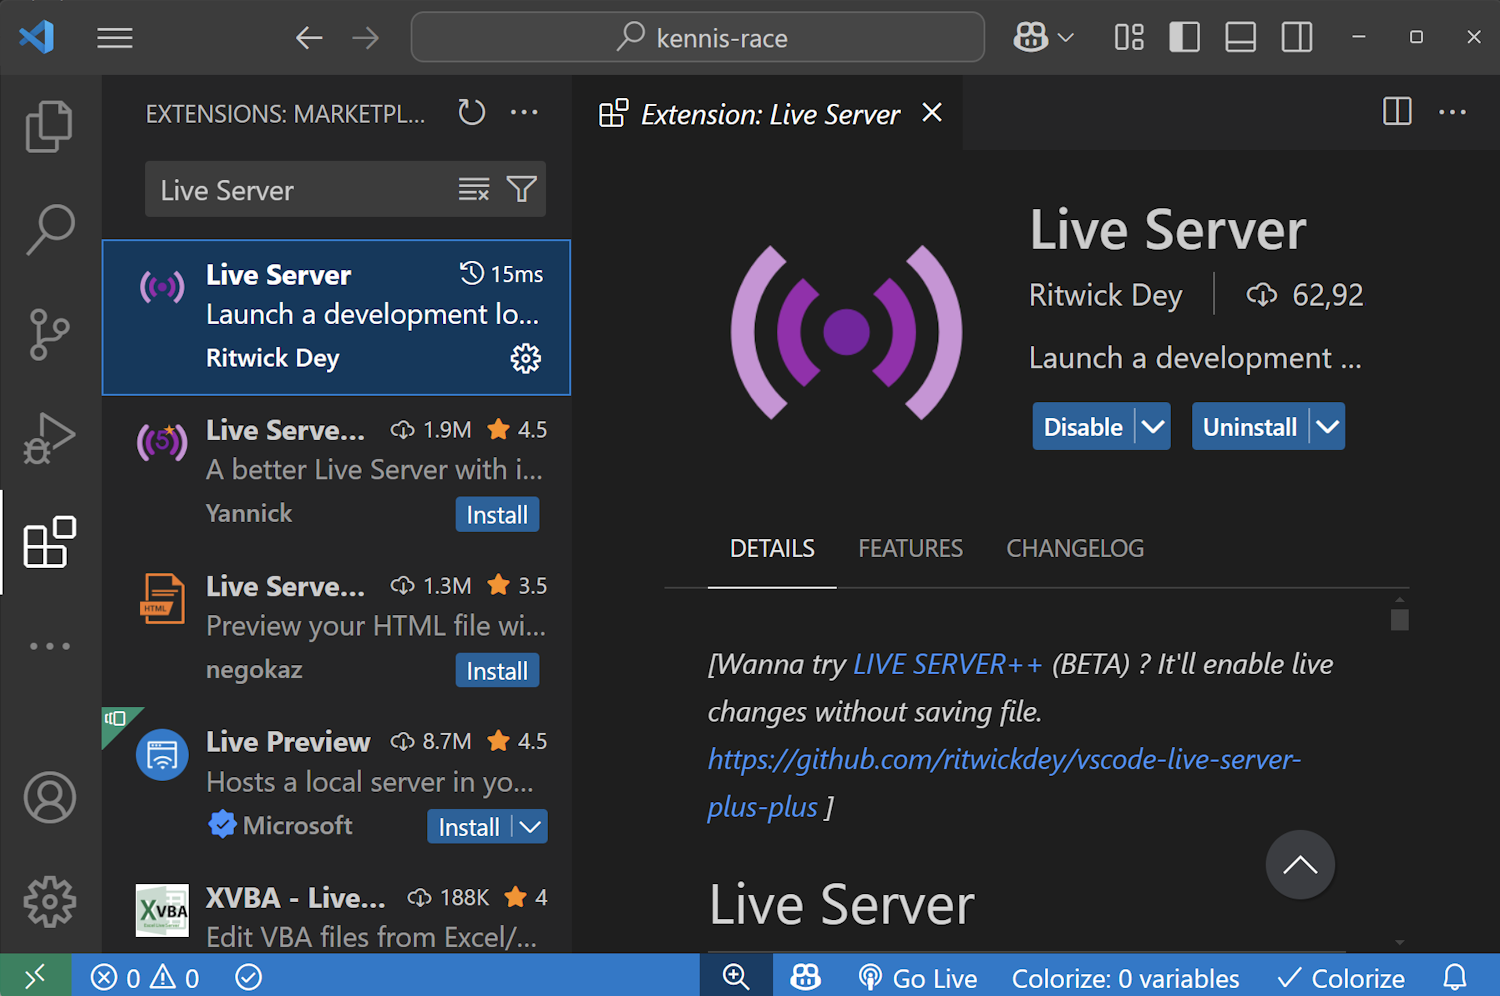
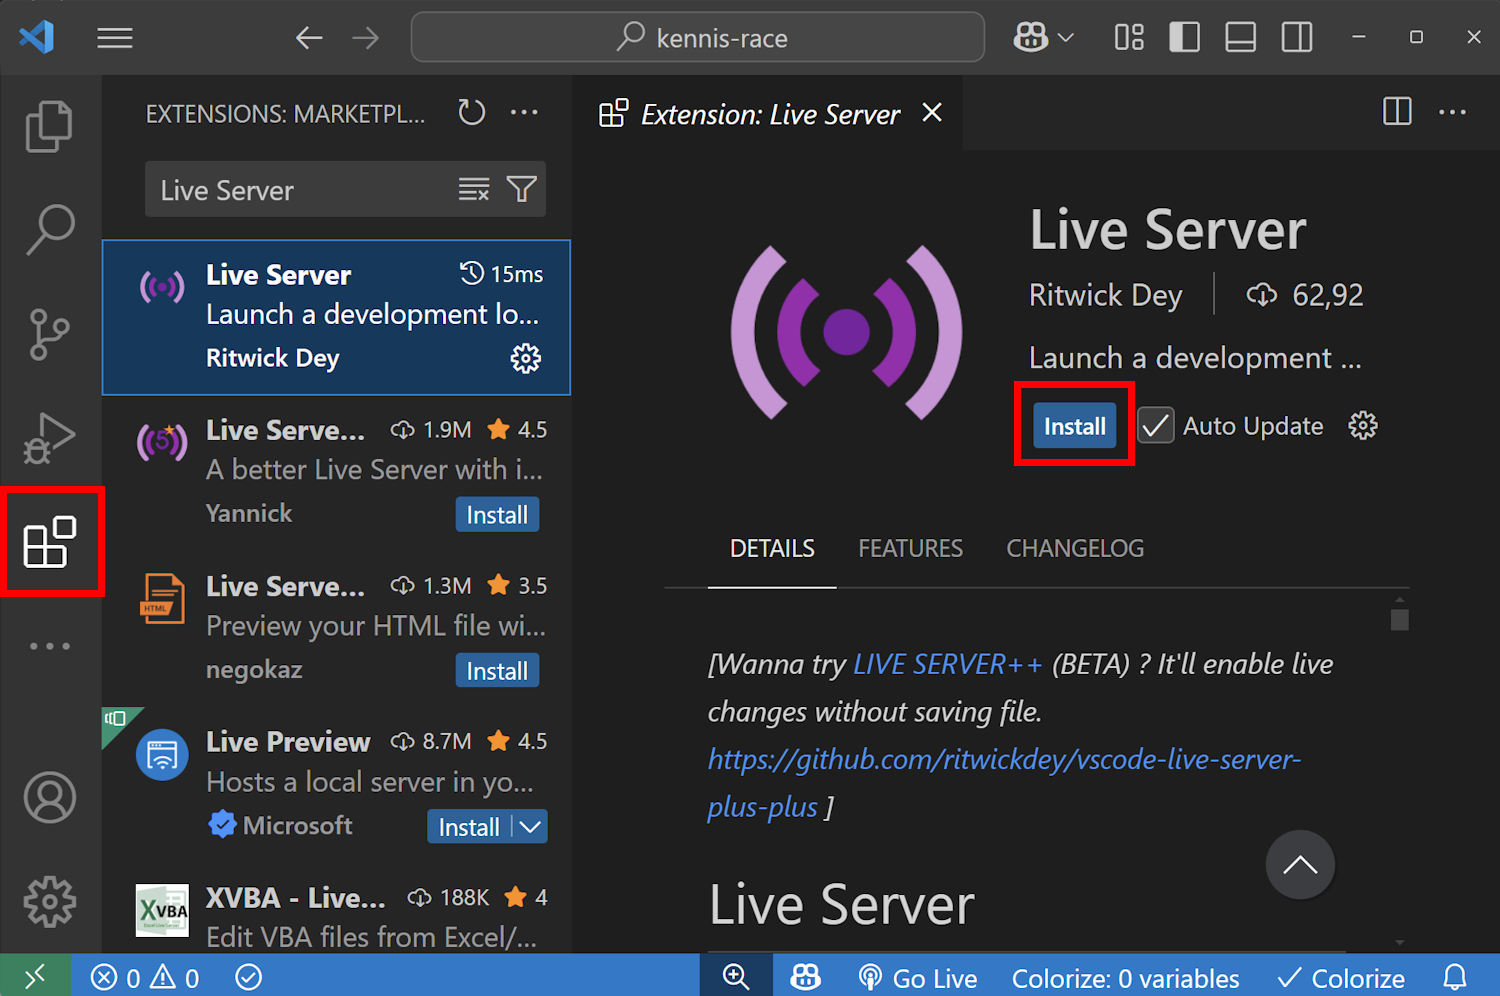
updated tutorial steps

Changed region(s): [[0.6747, 0.3735, 0.92, 0.4669], [0.0, 0.4669, 0.0613, 0.6225], [0.0613, 0.498, 0.092, 0.5914]]

diff --git a/tutorial.html b/tutorial.html
@@ -29,9 +29,9 @@
              <div class="tutorial__overview">
                 <p class="tutorial__text tutorial__text--highlight">Hiervoor gebruiken we 3 codetalen:</p>
                 <ul class="tutorial__list tutorial__list--languages">
-                <li class="tutorial__item tutorial__item--language">HTML</li>
-                <li class="tutorial__item tutorial__item--language">CSS</li>
-                <li class="tutorial__item tutorial__item--language">JavaScript</li>
+                    <li class="tutorial__item tutorial__item--language">HTML</li>
+                    <li class="tutorial__item tutorial__item--language">CSS</li>
+                    <li class="tutorial__item tutorial__item--language">JavaScript</li>
                 </ul>
             </div>
             <figure class="tutorial__figure">
@@ -57,12 +57,13 @@
                     </p>
                     <h3 class="step__subtitle">1.3 folderstructuur</h3>
                     <p class="step__item">
+                        Maak de mappen <span class="tutorial__highlight">css</span>, <span class="tutorial__highlight">data</span> en <span class="tutorial__highlight">scripts</span>, en de bestanden <span class="tutorial__highlight">main.css</span>, <span class="tutorial__highlight">app.js</span> en <span class="tutorial__highlight">index.html</span>.<br>
                         De map- en bestandsstructuur ziet er zo uit:
                         <img class="tutorial__image" alt="Maak map- en bestandsstructuur" src="./src/assets/screenshot4.png">
                     </p>
                     <h3 class="step__subtitle">1.4 Installatie Live server</h3>
                     <p class="step__item">
-                        Installeer de Live Server extensie in Visual Studio Code.
+                        Ga naar extensions en installeer de Live Server extensie in Visual Studio Code.
                         <img class="tutorial__image" alt="Installeer live server extensie" src="./src/assets/screenshot5.png">
                     </p>
                     <h3 class="step__subtitle">1.5 Opstarten van Live server</h3>
@@ -97,7 +98,7 @@
 &lt;<span class="tag">body</span>&gt;
     &lt;<span class="tag">main</span> <span class="attr">class</span>=<span class="string">&quot;quiz&quot;</span>&gt;
 
-    <span class="comment">&lt;!-- Voeg hier code toe --&gt;</span>
+    <span class="comment">&lt;!-- Voeg hier code toe in stappen 2.2, 2.3 en 2.4 --&gt;</span>
 
     &lt;/<span class="tag">main</span>&gt;
     &lt;<span class="tag">script</span> <span class="attr">type</span>=<span class="string">&quot;module&quot;</span> <span class="attr">src</span>=<span class="string">&quot;./scripts/app.js&quot;</span>&gt;&lt;/<span class="tag">script</span>&gt;
@@ -171,7 +172,8 @@
             </section>
             <section class="step">
                 <h2 class="step__title">Stap 3: CSS</h2>
-                <p class="step__text">CSS zorgt voor de vormgeving en stijl van je website.</p>
+                <p class="step__text">CSS zorgt voor de vormgeving en stijl van je website. In deze taal spreken we elementen uit het index.html bestand aan 
+                    en geven we ze bapaalde eigenschappen zoals groottes, kleuren, positionering en font-stijlen</p>
                 <div class="step__content">
                     <h3 class="step__subtitle">3.1 CSS toevoegen</h3>
                     <p class="step__item">
@@ -311,7 +313,13 @@
             </section>
             <section class="step">
                 <h2 class="step__title">Stap 4: JavaScript</h2>
-                <p class="step__text">JavaScript geeft functionaliteit aan het spel.</p>
+                <p class="step__text">JavaScript geeft functionaliteit aan het spel. Enkele basistermen van JavaScript:</p>
+                <ul class="tutorial__list tutorial__list--terms">
+                    <li class="tutorial__item tutorial__item--terms"><span class="tutorial__highlight">const & let:</span> Dit zijn variabelen. Const kan je niet aanpassen en let wel.</li>
+                    <li class="tutorial__item tutorial__item--terms"><span class="tutorial__highlight">function:</span> Dit declareert een functie waarmee je code kunt uitvoeren en optioneel parameters kunt meegeven.</li>
+                    <li class="tutorial__item tutorial__item--terms"><span class="tutorial__highlight">// :</span> Dit is comentaar. Het heeft geen invloed op de code.</li>
+                    <li class="tutorial__item tutorial__item--terms"><span class="tutorial__highlight">array :</span> Een geordende lijst waarin je meerdere waarden kunt opslaan in één variabele.</li>
+                </ul>
                 <div class="step__content">
                     <h3 class="step__subtitle">4.1 databestand downloaden</h3>
                     <p class="step__item">
@@ -367,14 +375,13 @@
                         Nu gaan we een random vraag tonen op de website.<br>
                         Schrijf in de functie <span class="tutorial__highlight">playerTurn()</span> onderstaande code.<br>
                         Hierin halen we een random vraag uit de array, en tonen we deze in <span class="tutorial__highlight">$questionDisplay</span>.
-                        <pre>
-<code>
-<span class="tag">function</span> <span class="var">playerTurn</span><span class="symbol">()</span> <span class="symbol">{</span>
+<pre><code><span class="tag">function</span> <span class="var">playerTurn</span><span class="symbol">()</span> <span class="symbol">{</span>
     <span class="tag">const</span> <span class="var">randomQuestion</span> <span class="symbol">=</span> <span class="var">questionArray</span><span class="symbol">[</span><span class="attr">Math</span>.<span class="attr">floor</span><span class="symbol">(</span><span class="attr">Math</span>.<span class="attr">random</span><span class="symbol">()</span> <span class="symbol">*</span> <span class="var">questionArray</span>.<span class="attr">length</span><span class="symbol">)</span><span class="symbol">];</span>
     <span class="var">$questionDisplay</span>.<span class="attr">innerHTML</span> <span class="symbol">=</span> <span class="var">randomQuestion</span>.<span class="attr">question</span><span class="symbol">;</span>
     <span class="var">currentAnswer</span> <span class="symbol">=</span> <span class="var">randomQuestion</span>.<span class="attr">answer</span><span class="symbol">;</span>
 
-    <span class="comment">// Hier komt nog code...</span>
+    <span class="comment">// Hier komt nog code in stap 4.5, 4.7 en 4.9</span>
+    
 <span class="symbol">}</span>
 </code></pre>
             <p class="step__item">Als je nu je website herlaad, wordt er elke keer een random quizvraag getoont.</p>
@@ -387,7 +394,7 @@
 </code></pre>
             <p class="step__item">Hiermee tonen we de variabele <span class="tutorial__highlight">currentPlayer</span> op de website.</p>
                     </p>
-                    <h3 class="step__subtitle">4.6 Antwoord knoppen laten werken</h3>
+                    <h3 class="step__subtitle">4.6 Antwoord-knoppen laten werken</h3>
                     <p class="step__item">
                         Vervolgens willen we onze knoppen laten werken. Schrijf deze code in de functie <span class="tutorial__highlight">initButtons()</span><br>
                         De <span class="tutorial__highlight">isWaiting</span> variabele is nodig om spammen tegen te houden. Enkel wanneer deze true is, kunnen we drukken op een knop
@@ -405,16 +412,16 @@
     });
 }
 </code></pre>
-                        <p class="step__item">Voor nu schrijven we een alert als we op een knop drukken. Later passen we dit aan.<br>
-                        Test dit eens door op de knoppen te drukken.</p>
+                        <p class="step__item">Voor nu schrijven we een <span class="tutorial__highlight">alert</span> als we op een knop drukken. Later passen we dit aan.<br>
+                        Test dit eens door op de knoppen te drukken. Je zal een melding in de browser krijgen.</p>
                         <img class="tutorial__image" alt="Alert op de game page" src="./src/assets/screenshot10.png">
                     </p>
                     <h3 class="step__subtitle">4.7 Score spelers laten tonen</h3>
 
                     <p class="step__item">
-                        Nu willen we de punten van de spelers kunnen zien. In index.html hebben we per speler een progress bar met 10 stappen.<br>
-                        De huidige score van de spelers wordt aangeduid door de klas "progress__step--current".<br>
-                        De juist beantwoorde vragen worden aangetoond met "progress__step--completed". Wijzig updatePoints().<br><br>
+                        Nu willen we de punten van de spelers kunnen zien. In <span class="tutorial__highlight">index.html</span> hebben we per speler een progress bar met 10 stappen.<br>
+                        De huidige score van de spelers wordt aangeduid door de klas <span class="tutorial__highlight">"progress__step--current"</span>.<br>
+                        De juist beantwoorde vragen worden aangetoond met <span class="tutorial__highlight">"progress__step--completed"</span>. Wijzig de functie <span class="tutorial__highlight">updatePoints()</span>.<br><br>
                         Deze functie haalt de twee elementen met de klasse .progress op en verwijdert bij ieder child-element de klasse progress__step--current.<br>
                         Vervolgens voegt hij, afhankelijk van de score per speler (maximaal 9), de klassen progress__step--current en progress__step--completed toe aan het juiste stap-element.
 <pre><code><span class="tag">function</span> <span class="selector">updatePoints</span>() {
@@ -432,24 +439,21 @@
         }
     });
 
-    <span class="symbol">if</span> (<span class="var">player1Score</span> &gt; <span class="value">9</span>) {
-        <span class="selector">playerWins</span>(<span class="value">1</span>);
-    } <span class="symbol">else if</span> (<span class="var">player2Score</span> &gt; <span class="value">9</span>) {
-        <span class="selector">playerWins</span>(<span class="value">2</span>);
-    }
+    <span class="comment">// Voeg hier nog code toe in stap 4.10</span>
+    
 }
 </code></pre>
 
-<p class="step__item">Vergeet ook niet om deze functie onderaan in playerTurn() op te roepen!<br>
+<p class="step__item">Vergeet ook niet om deze functie onderaan in <span class="tutorial__highlight">playerTurn()</span> op te roepen!<br>
                         Test deze functie door bovenaan je code de waardes van player1Score en player2Score aan te passen naar een getal onder de 10.<br>
                         Je zal zien dat de gekleurde circles van plaats veranderen.</p>
                     </p>
                     <h3 class="step__subtitle">4.8 quizvragen beantwoorden doormiddel van knoppen</h3>
                     <p class="step__item">
                         De volgende stap is zorgen dat we vragen kunnen antwoorden door de knoppen te gebruiken.<br>
-                        Dit doen we door een nieuwe funtie checkAnswer() te maken. We geven deze functie 2 dingen mee; het laatst gegeven antwoord en het correcte antwoord.<br>
+                        Dit doen we door een nieuwe funtie <span class="tutorial__highlight">checkAnswer()</span> te maken. We geven deze functie 2 dingen mee; het laatst gegeven en het correcte antwoord.<br>
                         Als deze twee gelijk zjin, geven we de huidige speler een punt. Als deze niet gelijk zijn geven we de andere speler een punt. <br>
-                        Dit wordt ook getoont in de $answerDisplay. Aan het eind van de functie switchen we van speler en voeren we een delay uit van 1000ms.
+                        Dit wordt ook getoont in de <span class="tutorial__highlight">$answerDisplay</span>. Aan het eind van de functie switchen we van speler en voeren we een <span class="tutorial__highlight">delay</span> uit van 1000ms.
 <pre><code><span class="tag">function</span> <span class="selector">checkAnswer</span>(<span class="var">givenAnswer</span>, <span class="var">correctAnswer</span>) {
     <span class="var">isWaiting</span> = <span class="tag">true</span>;
 
@@ -467,19 +471,20 @@
 }
 </code></pre>
 
-<p class="step__item">Voer deze functie uit in plaat van de geschreven alert in de initButtons() functie.<br>
-                        Geef true mee als er Juist knop wordt gedrukt, en false mee als er op de fout knop wordt gedrukt.</p>
+<p class="step__item">Voer deze functie uit in plaat van de geschreven alert in de <span class="tutorial__highlight">initButtons()</span> functie.<br>
+                        Geef true mee als er Juist knop wordt gedrukt, en false mee als er op de Fout knop wordt gedrukt.</p>
 <pre><code><span class="selector">checkAnswer</span>(<span class="tag">true</span>, <span class="var">currentAnswer</span>);
 </code></pre>
 <pre><code><span class="selector">checkAnswer</span>(<span class="tag">false</span>, <span class="var">currentAnswer</span>);
 </code></pre>
-<p class="step__item">Als we nu op onze knoppen drukken zien we dat er 'Correct' of 'Incorrect' komt te staan en ook wie het punt krijgt.</p>
+<p class="step__item">Als we nu op onze knoppen drukken zien we dat er 'Correct' of 'Incorrect' komt te staan en ook welke speler het punt krijgt.<br>
+</p>
                     </p>
-                    <h3 class="step__subtitle">4.9 Code plaatsen in index.html</h3>
+                    <h3 class="step__subtitle">4.9 De functie playerTurn() afwerken</h3>
                     <p class="step__item">
                         Nu moeten we zorgen dat nadat er op een knop wordt gedrukt, de volgende ronde goed wordt gestart.<br>
-                        Wis na iedere vraag het $answerDisplay en zet de variabele isWaiting terug op false. <br>
-                        Voeg deze twee lijnen code toe aan de functie playerTurn();
+                        Wis na iedere vraag het <span class="tutorial__highlight">$answerDisplay</span> en zet de variabele isWaiting terug op false. <br>
+                        Voeg deze twee lijnen code toe aan de functie <span class="tutorial__highlight">playerTurn()</span>;
 <pre><code><span class="var">$answerDisplay</span>.<span class="attr">innerHTML</span> = <span class="string">""</span>;
 <span class="var">isWaiting</span> = <span class="tag">false</span>;
 </code></pre>
@@ -487,11 +492,11 @@
 <p class="step__item"> Nu zal de het spel volledig werken en kan je om de beurt een vraag beantwoorden.<br>
                         Het enige wat nu nog mist is een winnaar... </p>
                     </p>
-                    <h3 class="step__subtitle">4.10 functie playerwins() aanmaken</h3>
+                    <h3 class="step__subtitle">4.10 De winnende speler bepalen</h3>
                     <p class="step__item">
-                        We maken een nieuwe functie genaamd playerWins(). Deze functie geef je het id van een speler mee, 1 of 2.<br>
-                        In deze functie maken we de twee knoppen onzichtbaar, en geven we weer welke speler is gewonnen in $questionDisplay.<br>
-                        Ook maken we een manier om het spel opnieuw te spelen, door een link naar de pagina te tonen in $playerTurnDisplay.
+                        We maken een nieuwe functie genaamd <span class="tutorial__highlight">playerWins()</span>. Deze functie geef je het <span class="tutorial__highlight">id</span> van een speler mee, 1 of 2.<br>
+                        In deze functie maken we de twee knoppen onzichtbaar, en geven we weer welke speler is gewonnen in <span class="tutorial__highlight">$questionDisplay</span>.<br>
+                        Ook maken we een manier om het spel opnieuw te spelen, door een link naar de pagina te tonen in <span class="tutorial__highlight">$playerTurnDisplay</span>.
 <pre><code><span class="tag">function</span> <span class="selector">playerWins</span>(<span class="var">playerId</span>) {
     <span class="var">$trueButton</span>.<span class="attr">style</span>.<span class="attr">display</span> = <span class="string">"none"</span>;
     <span class="var">$falseButton</span>.<span class="attr">style</span>.<span class="attr">display</span> = <span class="string">"none"</span>;
@@ -500,11 +505,10 @@
 }
 </code></pre>
 
-<p class="step__item">Nu moeten we deze functie oproepen, wanneer een speler 10 puntent heeft.
-                        Deze code controleert of er een speler 10 punten heeft, en roept dan de functie playerWins() op mt het juiste Id.<br>
-                        Voeg deze code onderaan in de functie updatePoints() toe.</p>
-<pre><code>
-<span class="symbol">if</span> (<span class="var">player1Score</span> &gt; <span class="value">9</span>) {
+<p class="step__item">Nu moeten we deze functie oproepen, wanneer een speler 10 puntent heeft. <br>
+                        Deze code controleert of er een speler 10 punten heeft, en roept dan de functie <span class="tutorial__highlight">playerWins()</span> op met het juiste id.<br>
+                        Voeg deze code onderaan in de functie <span class="tutorial__highlight">updatePoints()</span> toe.</p>
+<pre><code><span class="symbol">if</span> (<span class="var">player1Score</span> &gt; <span class="value">9</span>) {
     <span class="selector">playerWins</span>(<span class="value">1</span>);
 } <span class="symbol">else if</span> (<span class="var">player2Score</span> &gt; <span class="value">9</span>) {
     <span class="selector">playerWins</span>(<span class="value">2</span>);
@@ -515,7 +519,7 @@
                 </div>
             </section>
 
-            <p>Klaar! Nu zou je een werkende 1-tegen-1 quiz minigame moeten hebben. Je kan makkelijk je eigen vragen toevoegen in het questions.js bestand</p>
+            <p class="tutorial__text tutorial__text--intro">Klaar! Nu zou je een werkende 1-tegen-1 quiz minigame moeten hebben. Je kan makkelijk je eigen vragen toevoegen in het questions.js bestand</p>
         </section>
     </main>
     

diff --git a/src/styles/tutorial.css b/src/styles/tutorial.css
@@ -185,6 +185,19 @@ pre code {
   background-color: rgba(0, 170, 255, 0.2);
 }
 
+.tutorial__list--terms {
+  font-size: 1.2rem;
+  flex-direction: column;
+  list-style:circle;
+  margin-left: 2rem;
+}
+
+.tutorial__item--terms {
+  color: #5b5b5b;
+  font-weight: 300;
+
+}
+
 .tutorial__content {
   max-width: 95%;
   margin: 0 auto;
@@ -210,6 +223,7 @@ pre code {
 }
 
 .step__text {
+  font-size: 1.2rem;
   line-height: 1.8;
   margin-top: 2.5rem;
   color: #333;
